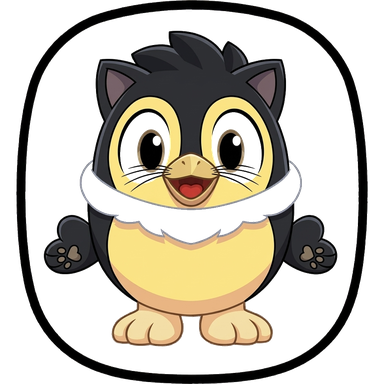
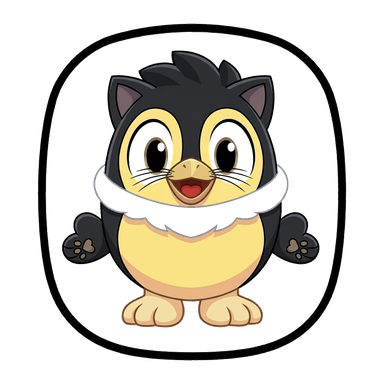
Centrar a Ñeñeñi en el botón de la cabecera
El PNG tocaba el borde arriba/abajo pero dejaba hueco a los lados, y
dentro del botón redondo se veía descentrado. Regenerado con aire
uniforme alrededor del anillo (márgenes simétricos en ambos ejes) y el
botón sin padding para compensar.

Claude-Session: https://claude.ai/code/session_01BQ7XD73X4PCmRx71oZLKb9

diff --git a/app/src/App.vue b/app/src/App.vue
@@ -248,7 +248,7 @@ function abrirRegistro() {
 .boton-nenei {
   width: 34px;
   height: 34px;
-  padding: 2px;
+  padding: 0;
   border: none;
   border-radius: 50%;
   background: var(--color-primario-suave);
